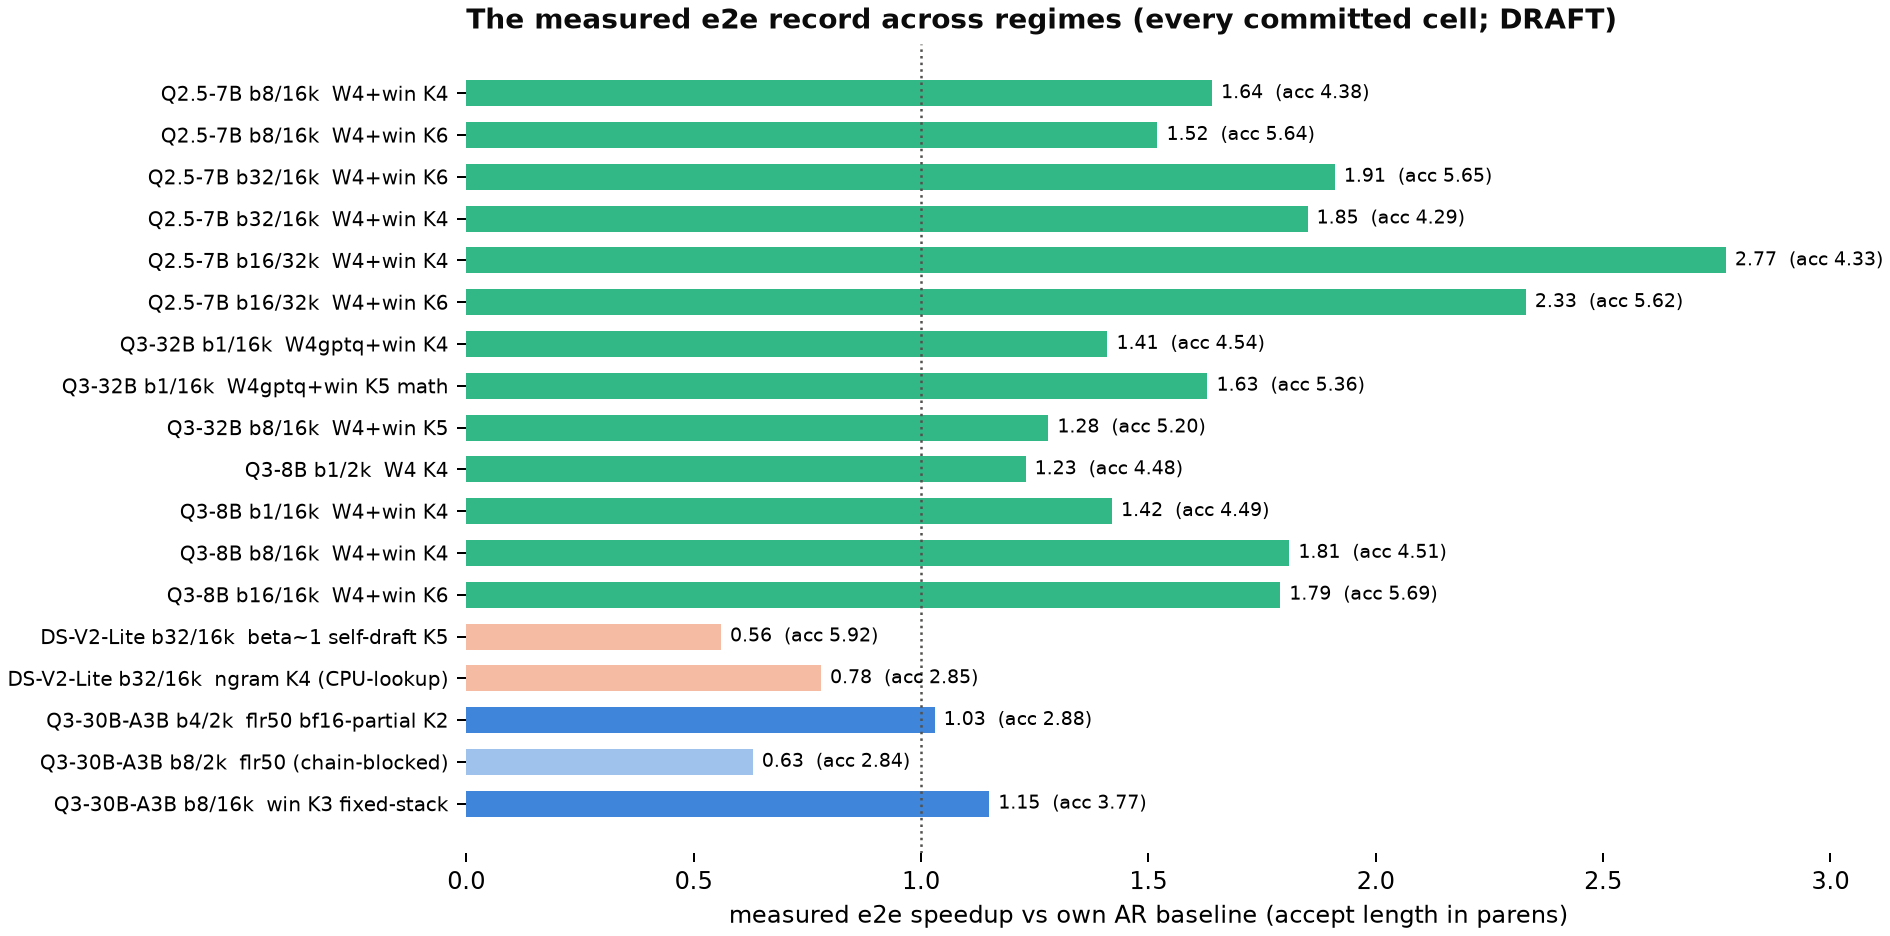
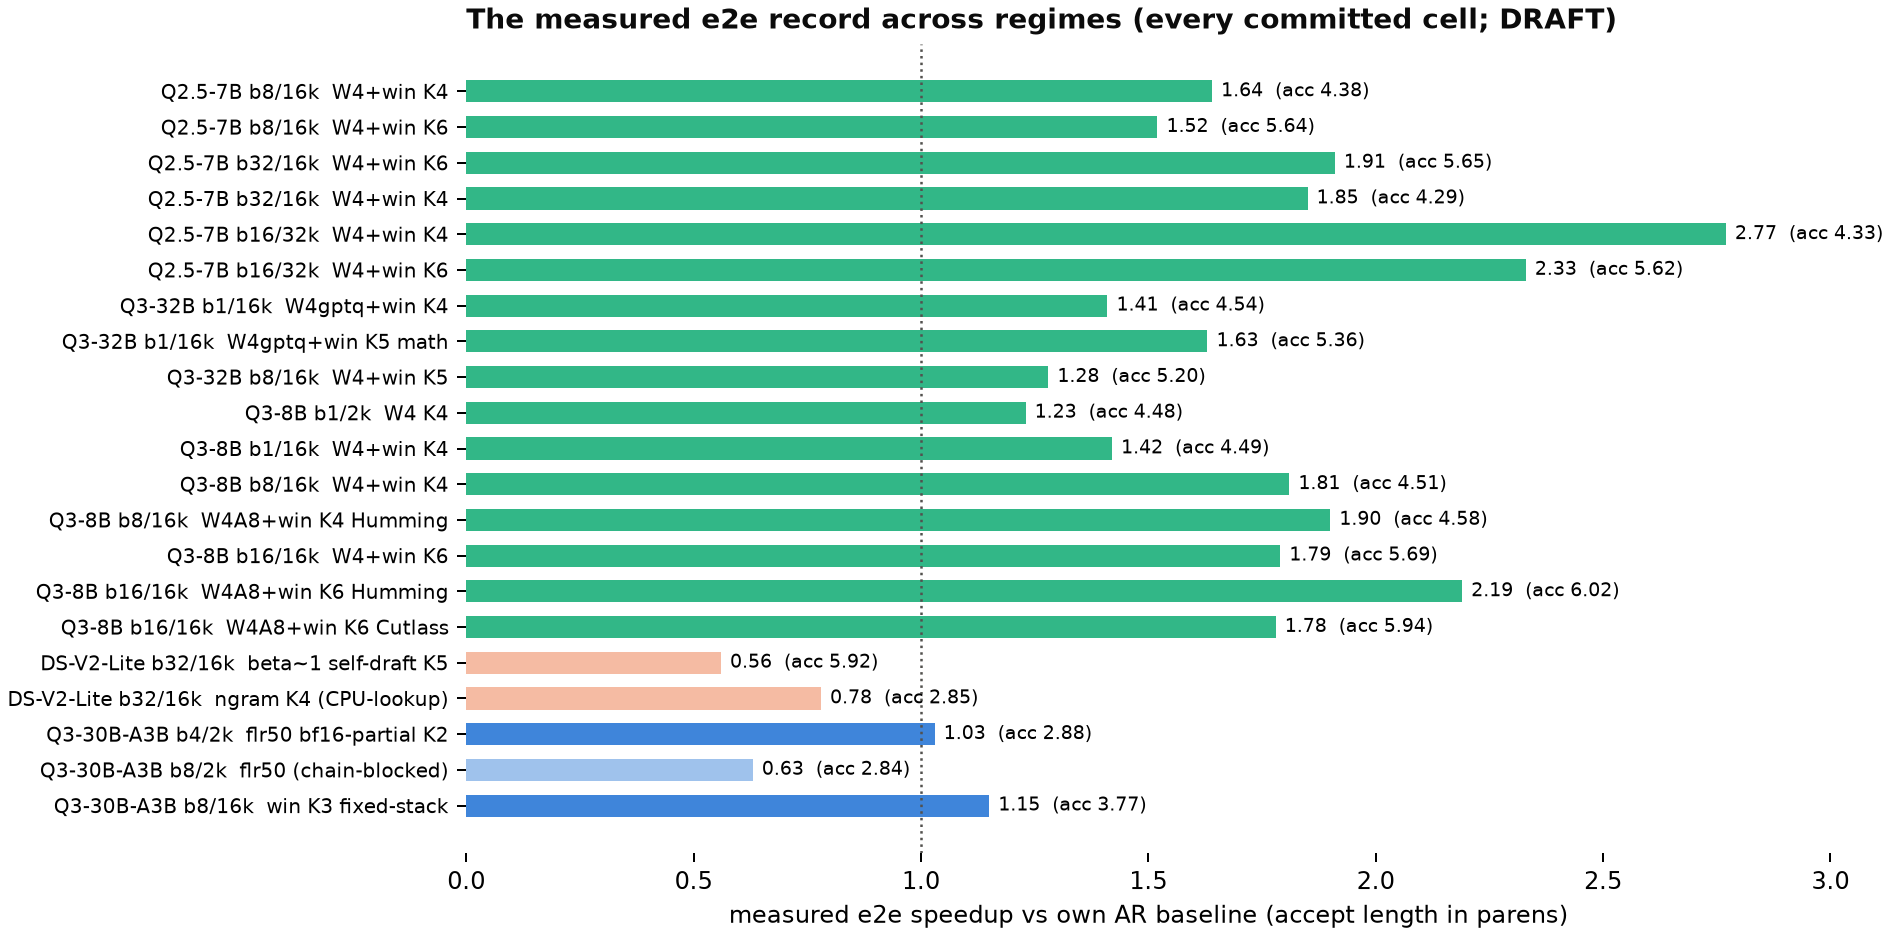
[W7][paper] fold W4A8 e2e: T5 e2e block, realization-span instance in MECHANISM, figB rows

Changed region(s): [[0.0, 0.0929, 0.9989, 0.8675]]

diff --git a/paper/scripts/make_h2h_figures.py b/paper/scripts/make_h2h_figures.py
@@ -77,6 +77,9 @@ E2E = [
     ("dense", "Q3-8B", 2, 1, "W4 K4", 1.23, 4.48),
     ("dense", "Q3-8B", 16, 8, "W4+win K4", 1.81, 4.51),
     ("dense", "Q3-8B", 16, 16, "W4+win K6", 1.79, 5.69),
+    ("dense", "Q3-8B", 16, 8, "W4A8+win K4 Humming", 1.90, 4.58),
+    ("dense", "Q3-8B", 16, 16, "W4A8+win K6 Humming", 2.19, 6.02),
+    ("dense", "Q3-8B", 16, 16, "W4A8+win K6 Cutlass", 1.78, 5.94),
     ("dense", "Q3-32B", 16, 1, "W4gptq+win K4", 1.41, 4.54),
     ("dense", "Q3-32B", 16, 1, "W4gptq+win K5 math", 1.63, 5.36),
     ("dense", "Q3-32B", 16, 8, "W4+win K5", 1.28, 5.20),

diff --git a/paper/TABLES_DRAFT.md b/paper/TABLES_DRAFT.md
@@ -74,7 +74,12 @@
 | arm | beta ondist | beta retrieval (needle@2k) | reading |
 |---|---|---|---|
 | actfp8 (A-only, dyn per-token e4m3) | **.9922** | - | A-quant factor isolated first time: ~free; validates W8A8 ~ W-only x A-only |
-| w4a8 (int4-W + fp8-A) | .9470 | - | -.005 vs W4-alone (.952); CutlassW4A8 beta-viable; e2e at b8/b16 pending |
+| w4a8 (int4-W + fp8-A) | .9470 | - | -.005 vs W4-alone (.952); e2e CONFIRMED dense-batch winner, see below |
+
+W4A8+win e2e (Q3-8B 16k, GPTQ ckpt): Humming kernel **1.90x b8 / 2.19x
+b16** (new batch headline) vs w4win 1.81/1.79; SAME ckpt on CutlassW4A8
+1.60/1.78 -- realization span 1.60<->2.19 at identical beta (kernel choice
+flips the cell). Accept 6.02 vs 5.69 (GPTQ-calibrated ckpt vs RTN proxy).
 | sparse24 (SparseGPT 2:4, 512 C4) | .8281 | - | calibration DOUBLES magnitude-2:4 (.416); still dominated alone (int4 .952 @ half the bytes) |
 | s24w4 (2:4 + int4 = marlin_24 combo) | .8220 | - | int4 costs only -.006 on top of sparse; 0.125x bytes; kernel absent in fork -> alive-pending-realization |
 | win512 | .975 | **.890** | window beta is TASK-DEPENDENT: first measured break on GQA |

diff --git a/paper/MECHANISM.md b/paper/MECHANISM.md
@@ -30,7 +30,9 @@ optimistic pricing).
 **Realizations** (the axis single-lever work ignores): per config, the
 execution variant is priced separately -- e.g. expert restriction spans
 {EP-shard local, fp8 full replica, bf16 partial replica} = measured
-0.55x/0.93x/1.03x at the SAME beta. Chain implementations {piecewise,
+0.55x/0.93x/1.03x at the SAME beta; W4A8 spans {CutlassW4A8, HummingW4A8}
+= 1.60x/1.90x at b8 and 1.78x/2.19x at b16 (same ckpt, same beta -- the
+kernel flips the cell from losing to winning). Chain implementations {piecewise,
 scratchpad-FA3 fixed, eager-MLA} carry fitted (phi, psi).
 
 **Known holes (explicit)**: hardware axis (one 4xH100 box), one model per
